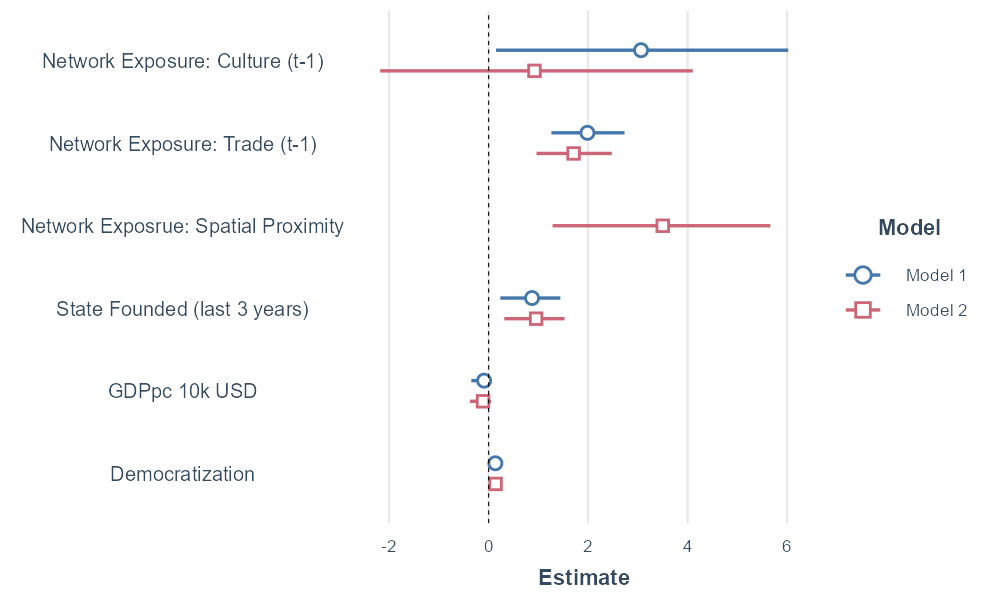
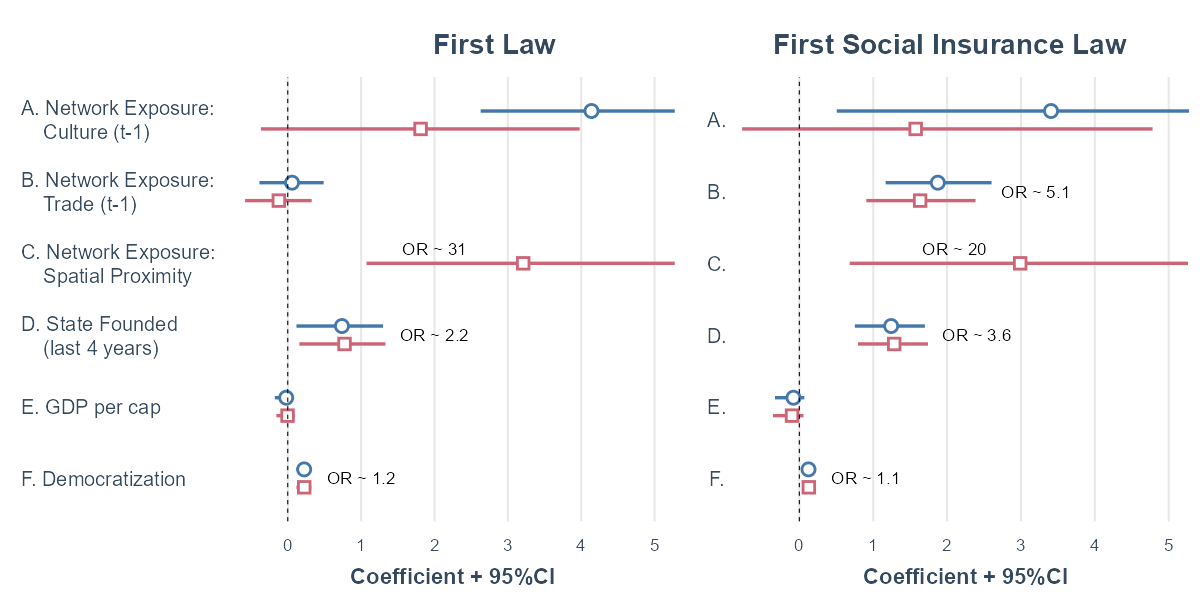
New Fig1 treatment plot

diff --git a/results/Tbl2.htm b/results/Tbl2.htm
@@ -25,19 +25,19 @@
 <tr><td style="text-align:left">Network Exposure: Culture (t-1)</td><td>2.638<sup>*</sup></td><td>3.407<sup>**</sup></td><td>1.575</td></tr>
 <tr><td style="text-align:left"></td><td>(1.505)</td><td>(1.489)</td><td>(1.613)</td></tr>
 <tr><td style="text-align:left"></td><td></td><td></td><td></td></tr>
-<tr><td style="text-align:left">Network Exposure: Colonial</td><td>-1.515</td><td>-2.189</td><td>-2.815</td></tr>
+<tr><td style="text-align:left">Network Exposure: Trade (t-1)</td><td>-1.515</td><td>-2.189</td><td>-2.815</td></tr>
 <tr><td style="text-align:left"></td><td>(2.020)</td><td>(2.052)</td><td>(2.029)</td></tr>
 <tr><td style="text-align:left"></td><td></td><td></td><td></td></tr>
-<tr><td style="text-align:left">Network Exposure: Trade (t-1)</td><td>1.908<sup>***</sup></td><td>1.874<sup>***</sup></td><td>1.635<sup>***</sup></td></tr>
+<tr><td style="text-align:left">Network Exposrue: Spatial Proximity</td><td>1.908<sup>***</sup></td><td>1.874<sup>***</sup></td><td>1.635<sup>***</sup></td></tr>
 <tr><td style="text-align:left"></td><td>(0.380)</td><td>(0.365)</td><td>(0.377)</td></tr>
 <tr><td style="text-align:left"></td><td></td><td></td><td></td></tr>
-<tr><td style="text-align:left">Network Exposrue: Spatial Proximity</td><td></td><td></td><td>2.989<sup>**</sup></td></tr>
+<tr><td style="text-align:left">GDPpc 10k USD</td><td></td><td></td><td>2.989<sup>**</sup></td></tr>
 <tr><td style="text-align:left"></td><td></td><td></td><td>(1.168)</td></tr>
 <tr><td style="text-align:left"></td><td></td><td></td><td></td></tr>
-<tr><td style="text-align:left">GDPpc 10k USD</td><td>-0.096</td><td>-0.080</td><td>-0.099</td></tr>
+<tr><td style="text-align:left">Democratization</td><td>-0.096</td><td>-0.080</td><td>-0.099</td></tr>
 <tr><td style="text-align:left"></td><td>(0.108)</td><td>(0.099)</td><td>(0.104)</td></tr>
 <tr><td style="text-align:left"></td><td></td><td></td><td></td></tr>
-<tr><td style="text-align:left">Democratization</td><td>0.148<sup>***</sup></td><td>0.124<sup>***</sup></td><td>0.129<sup>***</sup></td></tr>
+<tr><td style="text-align:left">regime</td><td>0.148<sup>***</sup></td><td>0.124<sup>***</sup></td><td>0.129<sup>***</sup></td></tr>
 <tr><td style="text-align:left"></td><td>(0.039)</td><td>(0.040)</td><td>(0.040)</td></tr>
 <tr><td style="text-align:left"></td><td></td><td></td><td></td></tr>
 <tr><td colspan="4" style="border-bottom: 1px solid black"></td></tr><tr><td style="text-align:left">Observations</td><td>12,162</td><td>12,162</td><td>12,162</td></tr>
